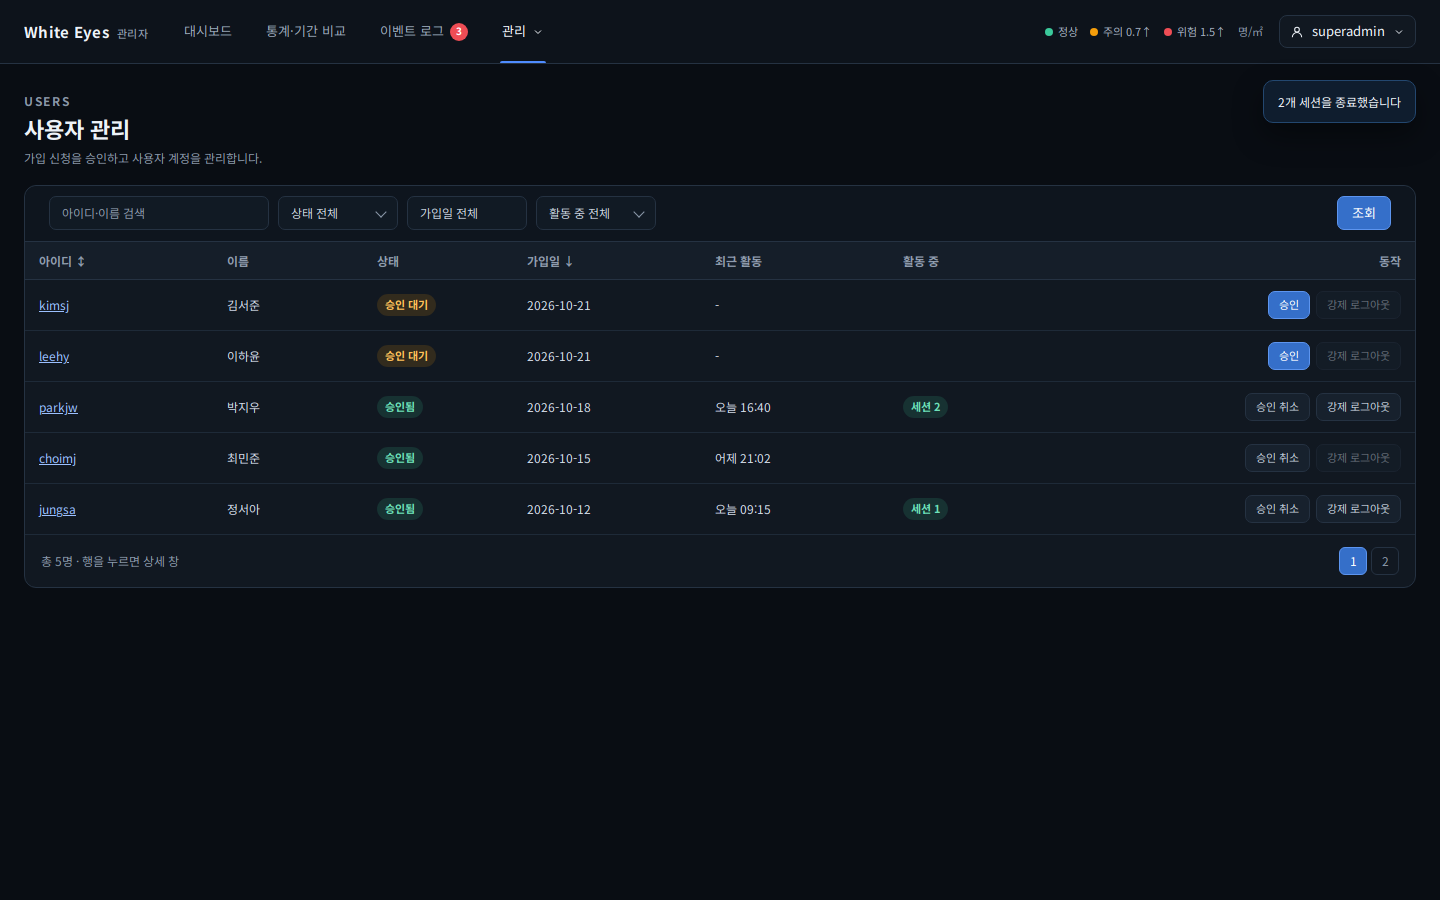
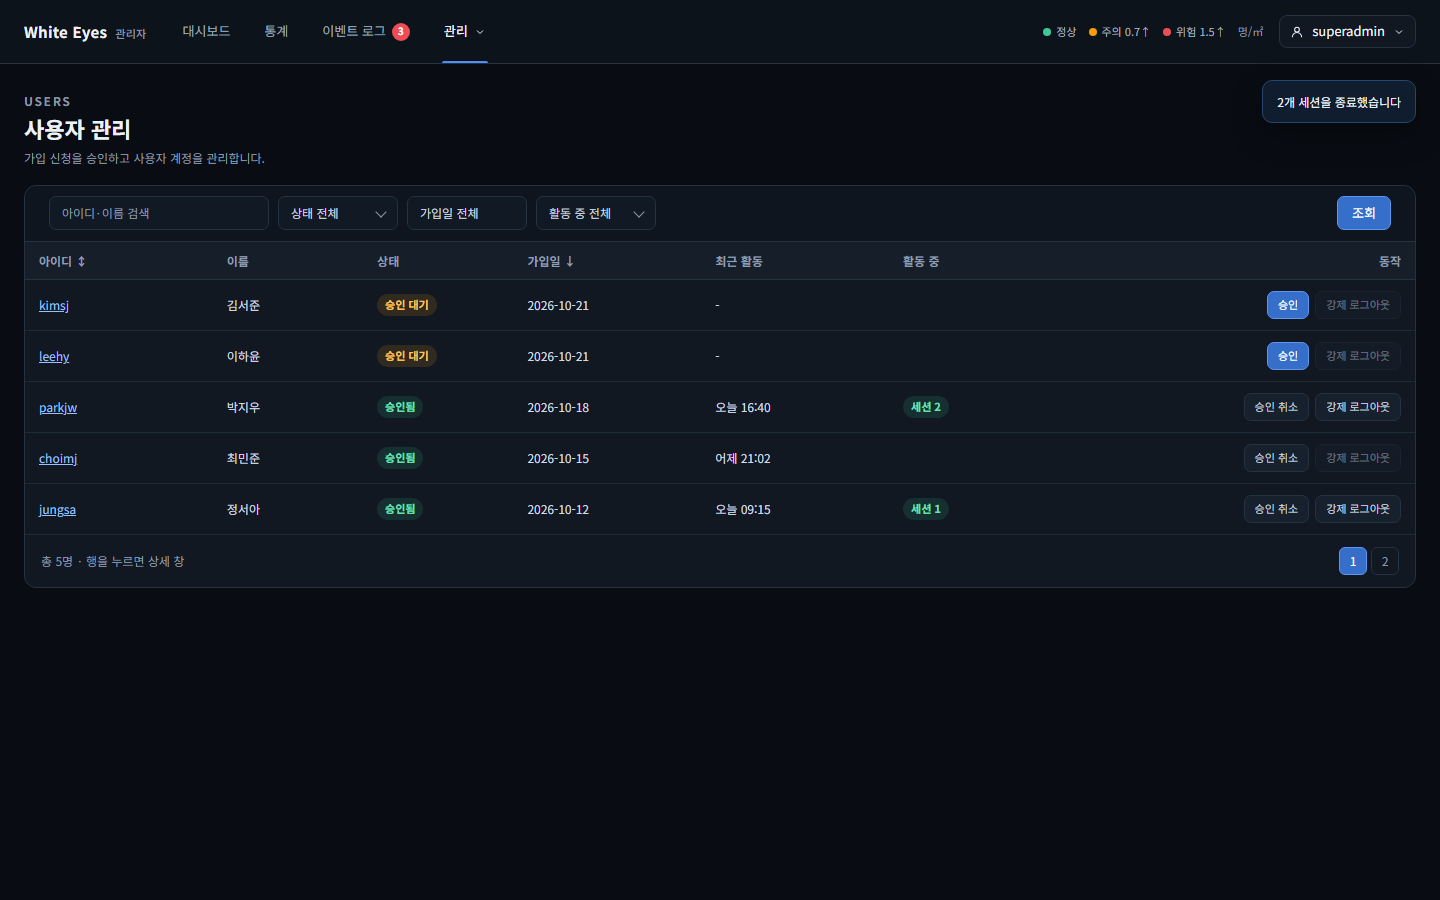
docs: 리뷰 반영 — 시안 헤더 탭·삭제된 화면 링크 정리, 시연용 구간 표현 통일 (spring #328·#329·#330)
- 시안 원본(AdminHeader·UserHeader·Graph)의 탭 이름을 '통계'로, 기간 비교 링크·버튼을 지우고 screens·png 다시 만듦
- FNC-C-024 시연용 구간을 옅은 배경(점선은 밀집도에만)으로, FNC-C-012에 그래프 4칸이 같은 응답을 씀을 적음
- package-structure.md의 compare.js 안내 삭제, design/README '시안 갱신 전' 메모에 docs #119
- recent10m은 sample_sec=0인 분을 뺌(api/public.md), SCR-A-008 갱신은 대시보드에서 연 창만(spring #354)

diff --git a/design/screens/SCR-C-004-graph.html b/design/screens/SCR-C-004-graph.html
@@ -26,7 +26,7 @@
   <a class="brand" href="SCR-C-003-dashboard.html">White Eyes<small>관리자</small></a>
   <nav class="tabs" aria-label="주요 메뉴">
     <a class="tab " href="SCR-C-003-dashboard.html">대시보드</a>
-    <a class="tab on" href="SCR-C-004-graph.html">통계·기간 비교</a>
+    <a class="tab on" href="SCR-C-004-graph.html">통계</a>
     <a class="tab " href="SCR-A-010-events.html">이벤트 로그 <span class="badge-count" data-api="GET /api/v1/events/unchecked-count + 알림 SSE" data-fnc="FNC-A-048(2단계)">3</span></a>
     <a class="tab " href="SCR-A-004-zones.html">관리
       <svg width="12" height="12" viewBox="0 0 24 24" fill="none" stroke="currentColor" stroke-width="2" aria-hidden="true"><path d="m6 9 6 6 6-6"></path></svg>
@@ -47,7 +47,7 @@
   <main class="page">
     <div class="page-heading">
       <div><p class="eyebrow">STATISTICS</p><h1>통계 그래프</h1></div>
-      <div style="display: flex; gap: 8px"><a class="btn secondary" href="SCR-C-005-compare.html">기간 비교</a><a class="btn secondary" href="SCR-C-006-excel.html">엑셀 다운로드</a></div>
+      <div style="display: flex; gap: 8px"><a class="btn secondary" href="SCR-C-006-excel.html">엑셀 다운로드</a></div>
     </div>
     <section class="panel" style="padding: 14px 16px; display: flex; gap: 14px; align-items: center; flex-wrap: wrap">
       <span class="control">대전광역시 › 중구 › 은행선화동</span>

diff --git a/design/screens/SCR-A-012-history.html b/design/screens/SCR-A-012-history.html
@@ -20,7 +20,7 @@ pre{margin:0;padding:12px 14px;border-radius:8px;background:#0b1118;color:#c3cdd
   <a class="brand" href="SCR-C-003-dashboard.html">White Eyes<small>관리자</small></a>
   <nav class="tabs" aria-label="주요 메뉴">
     <a class="tab " href="SCR-C-003-dashboard.html">대시보드</a>
-    <a class="tab " href="SCR-C-004-graph.html">통계·기간 비교</a>
+    <a class="tab " href="SCR-C-004-graph.html">통계</a>
     <a class="tab " href="SCR-A-010-events.html">이벤트 로그 <span class="badge-count" data-api="GET /api/v1/events/unchecked-count + 알림 SSE" data-fnc="FNC-A-048(2단계)">3</span></a>
     <a class="tab on" href="SCR-A-004-zones.html">관리
       <svg width="12" height="12" viewBox="0 0 24 24" fill="none" stroke="currentColor" stroke-width="2" aria-hidden="true"><path d="m6 9 6 6 6-6"></path></svg>

diff --git a/design/src/AdminHeader.dc.html b/design/src/AdminHeader.dc.html
@@ -16,7 +16,7 @@
   <a class="brand" href="Dashboard.dc.html">White Eyes<small>관리자</small></a>
   <nav class="tabs" aria-label="주요 메뉴">
     <a class="tab {{tabDashboard}}" href="Dashboard.dc.html">대시보드</a>
-    <a class="tab {{tabStats}}" href="Graph.dc.html">통계·기간 비교</a>
+    <a class="tab {{tabStats}}" href="Graph.dc.html">통계</a>
     <a class="tab {{tabEvents}}" href="Events.dc.html">이벤트 로그 <span class="badge-count" data-api="GET /api/v1/events/unchecked-count + 알림 SSE" data-fnc="FNC-A-048(2단계)">3</span></a>
     <a class="tab {{tabManage}}" href="Zones.dc.html">관리
       <svg width="12" height="12" viewBox="0 0 24 24" fill="none" stroke="currentColor" stroke-width="2" aria-hidden="true"><path d="m6 9 6 6 6-6"></path></svg>

diff --git a/design/screens/SCR-A-001-users.html b/design/screens/SCR-A-001-users.html
@@ -16,7 +16,7 @@
   <a class="brand" href="SCR-C-003-dashboard.html">White Eyes<small>관리자</small></a>
   <nav class="tabs" aria-label="주요 메뉴">
     <a class="tab " href="SCR-C-003-dashboard.html">대시보드</a>
-    <a class="tab " href="SCR-C-004-graph.html">통계·기간 비교</a>
+    <a class="tab " href="SCR-C-004-graph.html">통계</a>
     <a class="tab " href="SCR-A-010-events.html">이벤트 로그 <span class="badge-count" data-api="GET /api/v1/events/unchecked-count + 알림 SSE" data-fnc="FNC-A-048(2단계)">3</span></a>
     <a class="tab on" href="SCR-A-004-zones.html">관리
       <svg width="12" height="12" viewBox="0 0 24 24" fill="none" stroke="currentColor" stroke-width="2" aria-hidden="true"><path d="m6 9 6 6 6-6"></path></svg>

diff --git a/design/screens/SCR-A-003-admins.html b/design/screens/SCR-A-003-admins.html
@@ -16,7 +16,7 @@
   <a class="brand" href="SCR-C-003-dashboard.html">White Eyes<small>관리자</small></a>
   <nav class="tabs" aria-label="주요 메뉴">
     <a class="tab " href="SCR-C-003-dashboard.html">대시보드</a>
-    <a class="tab " href="SCR-C-004-graph.html">통계·기간 비교</a>
+    <a class="tab " href="SCR-C-004-graph.html">통계</a>
     <a class="tab " href="SCR-A-010-events.html">이벤트 로그 <span class="badge-count" data-api="GET /api/v1/events/unchecked-count + 알림 SSE" data-fnc="FNC-A-048(2단계)">3</span></a>
     <a class="tab on" href="SCR-A-004-zones.html">관리
       <svg width="12" height="12" viewBox="0 0 24 24" fill="none" stroke="currentColor" stroke-width="2" aria-hidden="true"><path d="m6 9 6 6 6-6"></path></svg>

diff --git a/design/screens/SCR-A-004-zones.html b/design/screens/SCR-A-004-zones.html
@@ -21,7 +21,7 @@
   <a class="brand" href="SCR-C-003-dashboard.html">White Eyes<small>관리자</small></a>
   <nav class="tabs" aria-label="주요 메뉴">
     <a class="tab " href="SCR-C-003-dashboard.html">대시보드</a>
-    <a class="tab " href="SCR-C-004-graph.html">통계·기간 비교</a>
+    <a class="tab " href="SCR-C-004-graph.html">통계</a>
     <a class="tab " href="SCR-A-010-events.html">이벤트 로그 <span class="badge-count" data-api="GET /api/v1/events/unchecked-count + 알림 SSE" data-fnc="FNC-A-048(2단계)">3</span></a>
     <a class="tab on" href="SCR-A-004-zones.html">관리
       <svg width="12" height="12" viewBox="0 0 24 24" fill="none" stroke="currentColor" stroke-width="2" aria-hidden="true"><path d="m6 9 6 6 6-6"></path></svg>

diff --git a/design/screens/SCR-A-006-cameras.html b/design/screens/SCR-A-006-cameras.html
@@ -16,7 +16,7 @@
   <a class="brand" href="SCR-C-003-dashboard.html">White Eyes<small>관리자</small></a>
   <nav class="tabs" aria-label="주요 메뉴">
     <a class="tab " href="SCR-C-003-dashboard.html">대시보드</a>
-    <a class="tab " href="SCR-C-004-graph.html">통계·기간 비교</a>
+    <a class="tab " href="SCR-C-004-graph.html">통계</a>
     <a class="tab " href="SCR-A-010-events.html">이벤트 로그 <span class="badge-count" data-api="GET /api/v1/events/unchecked-count + 알림 SSE" data-fnc="FNC-A-048(2단계)">3</span></a>
     <a class="tab on" href="SCR-A-004-zones.html">관리
       <svg width="12" height="12" viewBox="0 0 24 24" fill="none" stroke="currentColor" stroke-width="2" aria-hidden="true"><path d="m6 9 6 6 6-6"></path></svg>

diff --git a/design/screens/SCR-A-009-playback.html b/design/screens/SCR-A-009-playback.html
@@ -26,7 +26,7 @@
   <a class="brand" href="SCR-C-003-dashboard.html">White Eyes<small>관리자</small></a>
   <nav class="tabs" aria-label="주요 메뉴">
     <a class="tab " href="SCR-C-003-dashboard.html">대시보드</a>
-    <a class="tab " href="SCR-C-004-graph.html">통계·기간 비교</a>
+    <a class="tab " href="SCR-C-004-graph.html">통계</a>
     <a class="tab " href="SCR-A-010-events.html">이벤트 로그 <span class="badge-count" data-api="GET /api/v1/events/unchecked-count + 알림 SSE" data-fnc="FNC-A-048(2단계)">3</span></a>
     <a class="tab on" href="SCR-A-004-zones.html">관리
       <svg width="12" height="12" viewBox="0 0 24 24" fill="none" stroke="currentColor" stroke-width="2" aria-hidden="true"><path d="m6 9 6 6 6-6"></path></svg>

diff --git a/design/screens/SCR-A-010-events.html b/design/screens/SCR-A-010-events.html
@@ -21,7 +21,7 @@
   <a class="brand" href="SCR-C-003-dashboard.html">White Eyes<small>관리자</small></a>
   <nav class="tabs" aria-label="주요 메뉴">
     <a class="tab " href="SCR-C-003-dashboard.html">대시보드</a>
-    <a class="tab " href="SCR-C-004-graph.html">통계·기간 비교</a>
+    <a class="tab " href="SCR-C-004-graph.html">통계</a>
     <a class="tab on" href="SCR-A-010-events.html">이벤트 로그 <span class="badge-count" data-api="GET /api/v1/events/unchecked-count + 알림 SSE" data-fnc="FNC-A-048(2단계)">3</span></a>
     <a class="tab " href="SCR-A-004-zones.html">관리
       <svg width="12" height="12" viewBox="0 0 24 24" fill="none" stroke="currentColor" stroke-width="2" aria-hidden="true"><path d="m6 9 6 6 6-6"></path></svg>

diff --git a/design/screens/SCR-A-013-admin-header.html b/design/screens/SCR-A-013-admin-header.html
@@ -13,7 +13,7 @@
   <a class="brand" href="SCR-C-003-dashboard.html">White Eyes<small>관리자</small></a>
   <nav class="tabs" aria-label="주요 메뉴">
     <a class="tab on" href="SCR-C-003-dashboard.html">대시보드</a>
-    <a class="tab " href="SCR-C-004-graph.html">통계·기간 비교</a>
+    <a class="tab " href="SCR-C-004-graph.html">통계</a>
     <a class="tab " href="SCR-A-010-events.html">이벤트 로그 <span class="badge-count" data-api="GET /api/v1/events/unchecked-count + 알림 SSE" data-fnc="FNC-A-048(2단계)">3</span></a>
     <a class="tab " href="SCR-A-004-zones.html">관리
       <svg width="12" height="12" viewBox="0 0 24 24" fill="none" stroke="currentColor" stroke-width="2" aria-hidden="true"><path d="m6 9 6 6 6-6"></path></svg>

diff --git a/design/screens/SCR-C-003-dashboard-deck-expanded.html b/design/screens/SCR-C-003-dashboard-deck-expanded.html
@@ -20,7 +20,7 @@
   <a class="brand" href="SCR-C-003-dashboard.html">White Eyes<small>관리자</small></a>
   <nav class="tabs" aria-label="주요 메뉴">
     <a class="tab on" href="SCR-C-003-dashboard.html">대시보드</a>
-    <a class="tab " href="SCR-C-004-graph.html">통계·기간 비교</a>
+    <a class="tab " href="SCR-C-004-graph.html">통계</a>
     <a class="tab " href="SCR-A-010-events.html">이벤트 로그 <span class="badge-count" data-api="GET /api/v1/events/unchecked-count + 알림 SSE" data-fnc="FNC-A-048(2단계)">3</span></a>
     <a class="tab " href="SCR-A-004-zones.html">관리
       <svg width="12" height="12" viewBox="0 0 24 24" fill="none" stroke="currentColor" stroke-width="2" aria-hidden="true"><path d="m6 9 6 6 6-6"></path></svg>

diff --git a/design/screens/SCR-C-003-dashboard.html b/design/screens/SCR-C-003-dashboard.html
@@ -25,7 +25,7 @@
   <a class="brand" href="SCR-C-003-dashboard.html">White Eyes<small>관리자</small></a>
   <nav class="tabs" aria-label="주요 메뉴">
     <a class="tab on" href="SCR-C-003-dashboard.html">대시보드</a>
-    <a class="tab " href="SCR-C-004-graph.html">통계·기간 비교</a>
+    <a class="tab " href="SCR-C-004-graph.html">통계</a>
     <a class="tab " href="SCR-A-010-events.html">이벤트 로그 <span class="badge-count" data-api="GET /api/v1/events/unchecked-count + 알림 SSE" data-fnc="FNC-A-048(2단계)">3</span></a>
     <a class="tab " href="SCR-A-004-zones.html">관리
       <svg width="12" height="12" viewBox="0 0 24 24" fill="none" stroke="currentColor" stroke-width="2" aria-hidden="true"><path d="m6 9 6 6 6-6"></path></svg>
